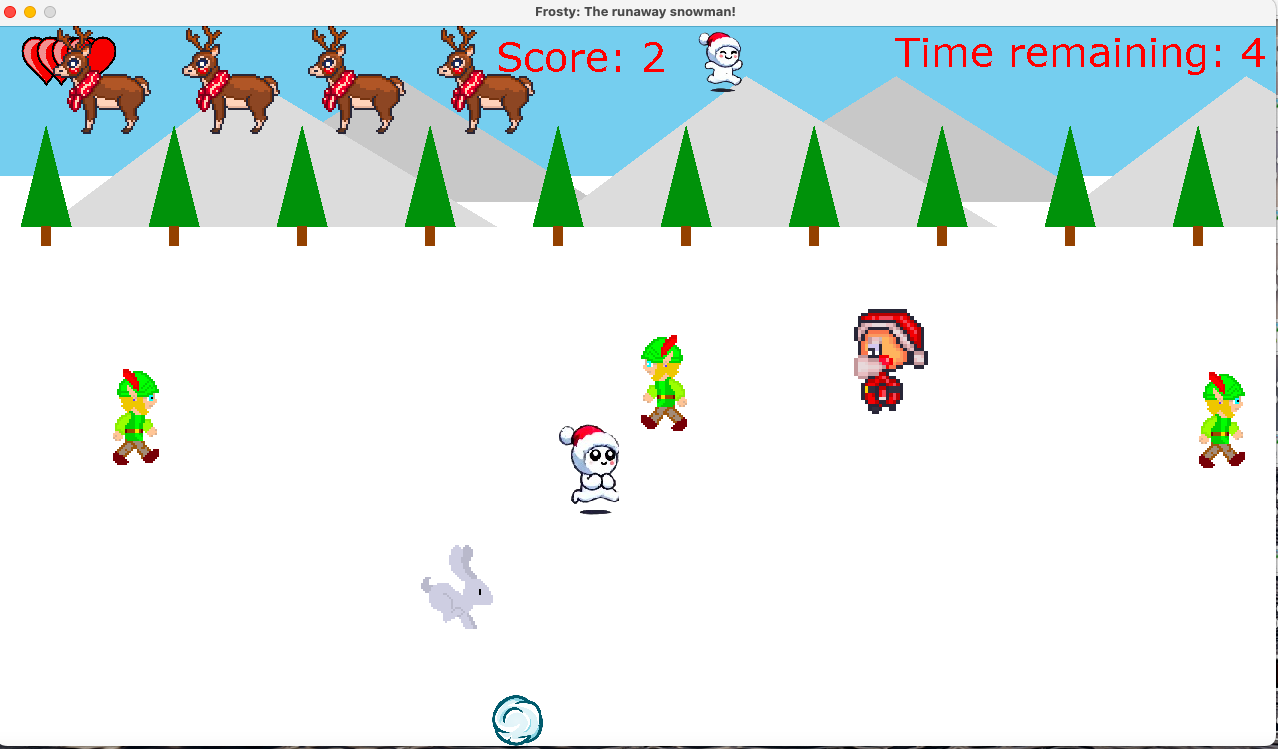
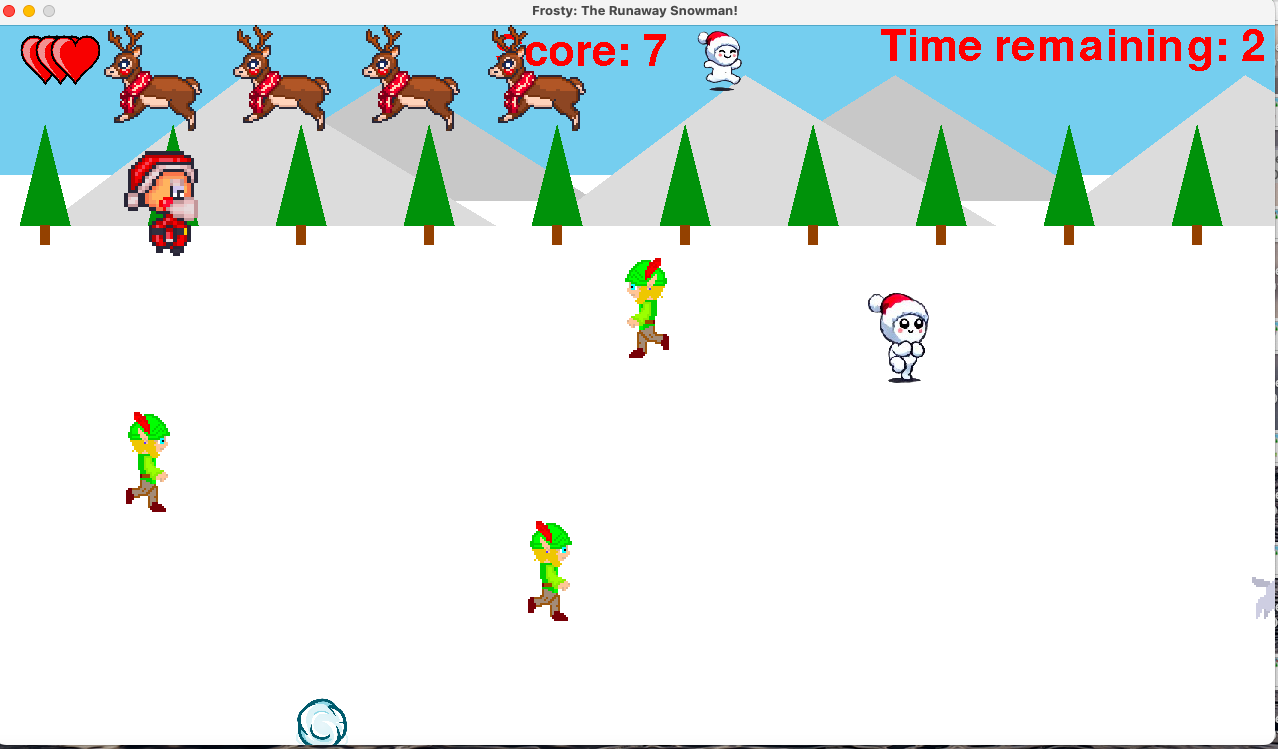
README images updated

diff --git a/README.md b/README.md
@@ -1,8 +1,8 @@
-# Frosty: The Runaway Snowman!
+**# Frosty: The Runaway Snowman!
 
-Frosty the snowman has runaway and is on the loose!
+Frosty the snowman has run away and is on the loose!
 
-The aim of the game is to throw snowballs at Frosty, the naughty runaway snowman before the time runs out
+The aim of the game is to throw snowballs at Frosty before the time runs out.
 
 But be careful...each time you hit Frosty, he gets faster!
 
@@ -13,11 +13,11 @@ Santa and his friends reduces heart health — so aim wisely and have fun!
 
 ### Movement
 
-Use the left/right arrow keys to move the snowball at the bottom of the screen.
+Use the keyboard for game play.
 
-Press SPACEBAR to throw the snowball.
+Use the **LEFT/RIGHT** arrow keys to move the snowball at the bottom of the screen.
 
-Press P to Play or Q to Quit.
+Press **SPACEBAR** to throw the snowball.
 
 ### Health
 
@@ -56,9 +56,9 @@ alt="Frosty: The runaway snowman! Pygame Demo" width="400" height="300" border="
 
 ## Game screenshots
 
-**Main menu:**
+**Main menu:****
 
-<img src="assets/images/readme_imgs/welcome_screen_img.png" alt="Frosty: The runaway snowman! Welcome screen" width="400" height="250">
+<img src="assets/images/readme_imgs/main_menu_img.png" alt="Frosty: The runaway snowman! Main menu" width="400" height="250">
 
 **Instruction screen:**
 
@@ -70,11 +70,11 @@ alt="Frosty: The runaway snowman! Pygame Demo" width="400" height="300" border="
 
 **Naughty screen:**
 
-<img src="assets/images/readme_imgs/instruction_screen_img.png" alt="Frosty: The runaway snowman! Instructions" width="400" height="250">
+<img src="assets/images/readme_imgs/naughty_screen_img.png" alt="Frosty: The runaway snowman! Naughty screen" width="400" height="250">
 
 **Times up screen:**
 
-<img src="assets/images/readme_imgs/instruction_screen_img.png" alt="Frosty: The runaway snowman! Instructions" width="400" height="250">
+<img src="assets/images/readme_imgs/times_up_img.png" alt="Frosty: The runaway snowman! Times up!" width="400" height="250">
 
 
 **Game Over:**
